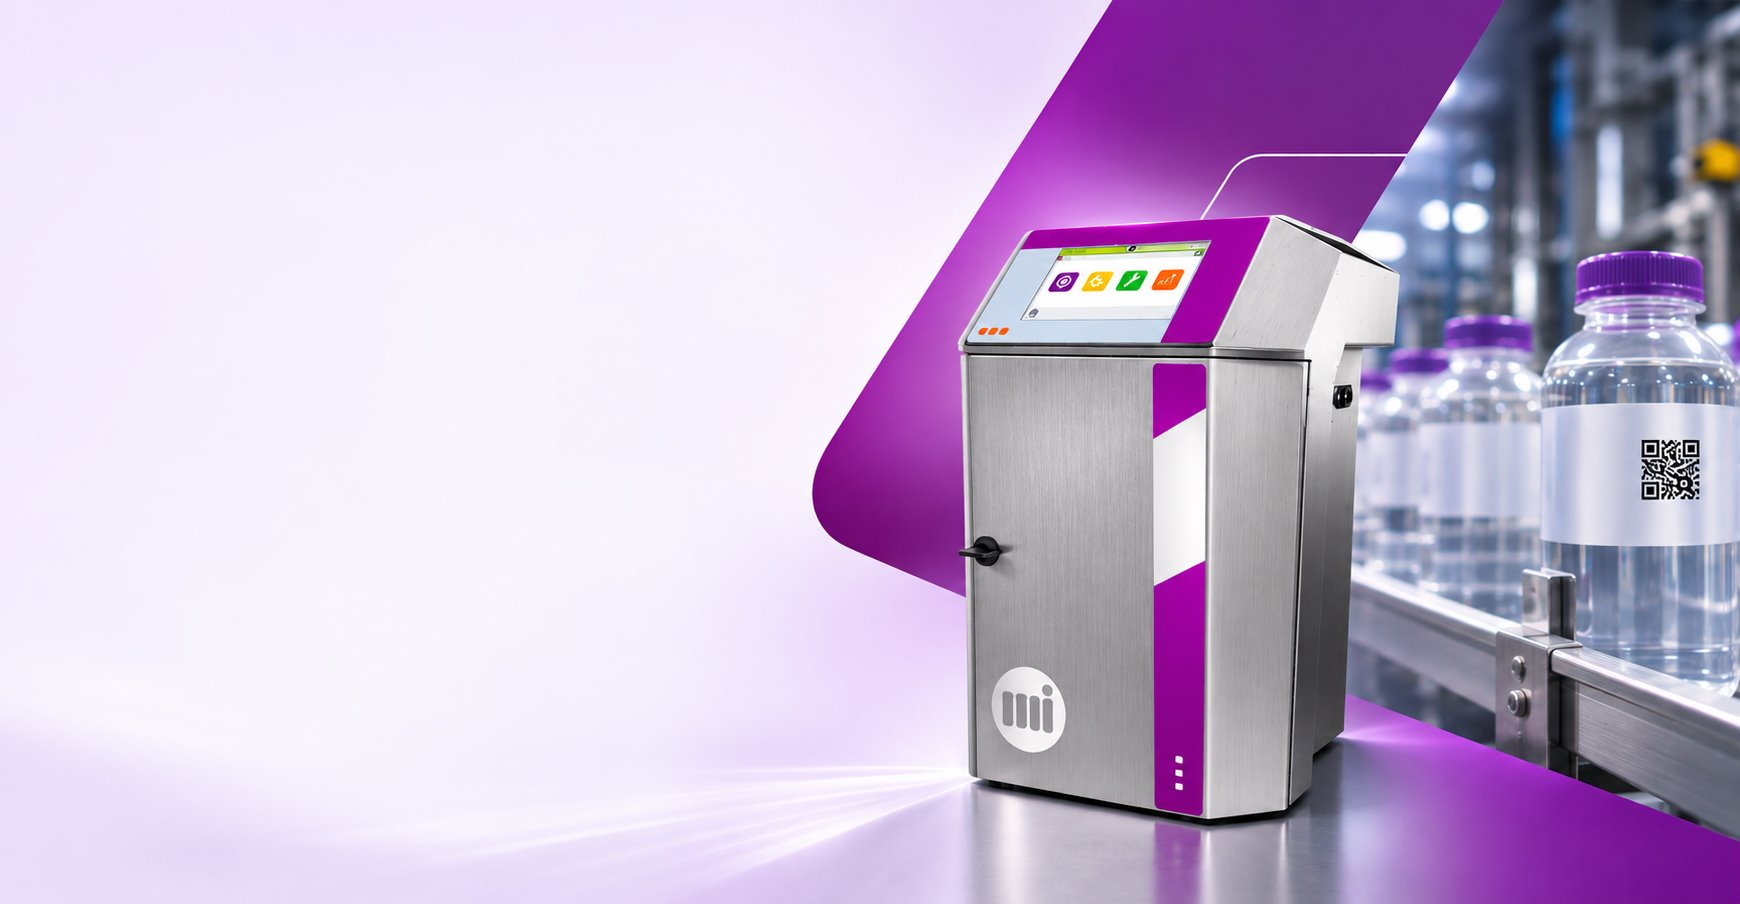
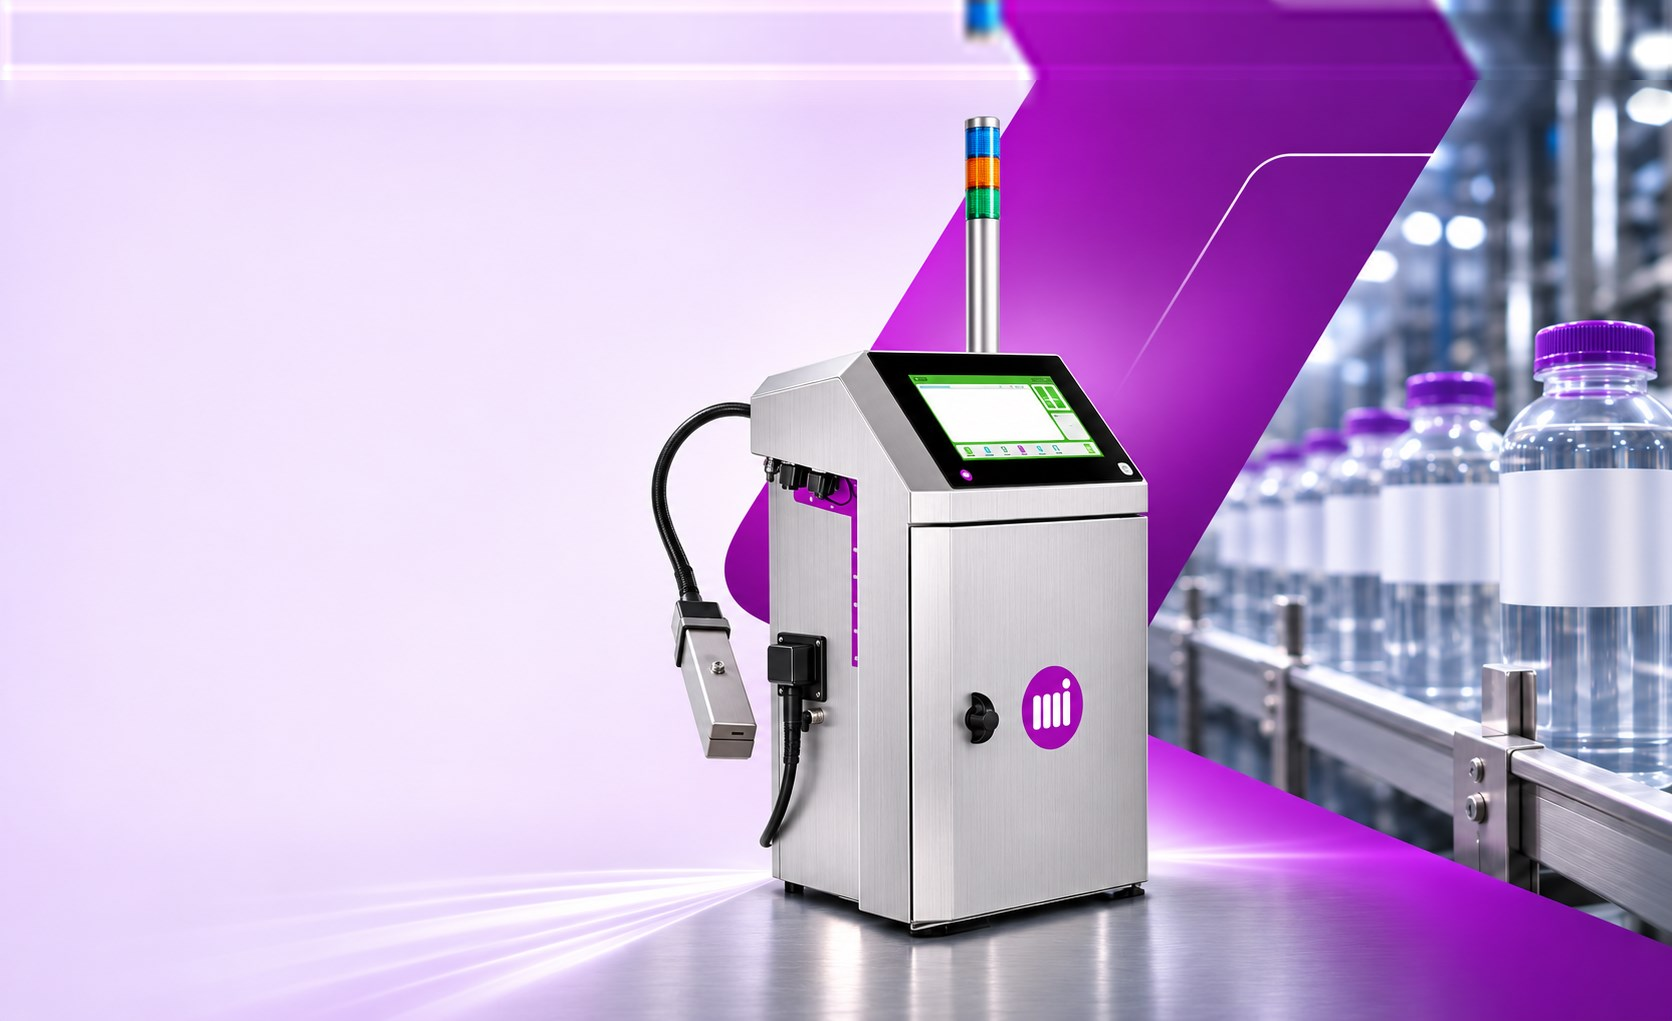
Hero com novo fundo (9750+), etiquetas de lote e QR reposicionados

diff --git a/index.html b/index.html
@@ -62,9 +62,9 @@ section{padding-block:clamp(56px,8vw,96px)}
 .top-markem{height:max(26px, calc(var(--u) * 43));width:auto}
 .top .btn{height:max(44px, calc(var(--u) * 57));padding:0 max(16px, calc(var(--u) * 24));font-size:max(15px, calc(var(--u) * 21));border-radius:8px;gap:max(10px, calc(var(--u) * 16))}
 
-.hero{--h-ink:#1b1830;--h-purple:#8a168d;position:relative;overflow:hidden;padding:0;background:#f3edf8;min-height:calc(var(--u) * 904)}
+.hero{--h-ink:#1b1830;--h-purple:#8a168d;position:relative;overflow:hidden;padding:0;background:linear-gradient(180deg,#f1e6f8 0%,#efe2f6 70%,#ece0f3 100%);min-height:calc(var(--u) * 904)}
 .hero-media{position:absolute;inset:0;overflow:hidden}
-.hero-stage{position:absolute;top:0;right:0;height:100%;aspect-ratio:1740/904;min-width:100%}
+.hero-stage{position:absolute;top:0;right:0;height:100%;aspect-ratio:1672/1021;-webkit-mask-image:linear-gradient(90deg,transparent 0,#000 9%);mask-image:linear-gradient(90deg,transparent 0,#000 9%)}
 .hero-stage img{position:absolute;inset:0;width:100%;height:100%;object-fit:cover;object-position:right center}
 .hero-overlay{position:absolute;inset:0;width:100%;height:100%;overflow:visible}
 .hero-copy{position:relative;z-index:2;padding:calc(var(--u) * 163) 0 calc(var(--u) * 66) max(20px, calc(var(--u) * 116))}
@@ -90,6 +90,7 @@ section{padding-block:clamp(56px,8vw,96px)}
   .hero{min-height:0;display:flex;flex-direction:column;background:linear-gradient(180deg,#fdfbfe 0%,#f1e8f5 100%)}
   .hero-copy{order:1;padding:32px 20px 36px}
   .hero-media{order:2;position:relative;inset:auto;aspect-ratio:1/1;max-height:560px}
+  .hero-stage{-webkit-mask-image:none;mask-image:none}
   .hero-pill{font-size:12px;padding:6px 16px;letter-spacing:.12em}
   .hero h1{font-size:clamp(31px,7.6vw,52px);margin-top:18px}
   .hero h1 br.d{display:none}
@@ -526,21 +527,32 @@ main > section:nth-of-type(8){z-index:2}
 <section class="hero">
   <div class="hero-media">
     <div class="hero-stage">
-      <img src="assets/img/hero-bg.jpg" alt="Impressora industrial Markem-Imaje de jato de tinta contínuo ao lado de garrafas codificadas com QR Code na linha de produção" width="1740" height="904" fetchpriority="high">
-      <svg class="hero-overlay" viewBox="0 0 1740 904" preserveAspectRatio="xMaxYMid slice" aria-hidden="true">
-        <!-- modelo na faixa da máquina -->
-        <text transform="translate(1196 567) rotate(-90)" font-family="'Plus Jakarta Sans','Segoe UI',sans-serif" font-weight="800" font-size="50" letter-spacing="-1" fill="#8a168d">9450</text>
+      <img src="assets/img/hero-bg.jpg" alt="Impressora industrial Markem-Imaje de jato de tinta contínuo ao lado de garrafas codificadas com QR Code na linha de produção" width="1672" height="1021" fetchpriority="high">
+      <svg class="hero-overlay" viewBox="0 0 1672 1021" preserveAspectRatio="xMaxYMid slice" aria-hidden="true"><g transform="translate(0 80)">
+        <!-- tela da máquina -->
+        <g transform="translate(934 312) skewY(-1.5)" font-family="'Plus Jakarta Sans','Segoe UI',sans-serif" font-weight="800" fill="#2a2733">
+          <circle cx="11" cy="16" r="11" fill="#2a2733"/><path d="M5 21v-9M9 21v-9M13 21v-9M17 21v-7" stroke="#fff" stroke-width="2"/>
+          <text x="28" y="12" font-size="10.5" font-weight="600" letter-spacing=".5">WELCOME</text>
+          <text x="28" y="27" font-size="15">9750+</text>
+        </g>
+        <!-- modelo -->
+        <rect x="1062" y="410" width="60" height="20" rx="4" fill="#1e1b2c"/>
+        <text x="1092" y="425" text-anchor="middle" font-family="'Plus Jakarta Sans','Segoe UI',sans-serif" font-weight="700" font-size="13" fill="#fff">9750+</text>
         <!-- código impresso no rótulo da garrafa -->
         <g font-family="'Barlow Condensed','Arial Narrow',sans-serif" font-weight="600" font-size="15" fill="#2a2733">
-          <text x="1549" y="464">LOTE L2611-05</text>
-          <text x="1549" y="484">VAL 05/05/2027</text>
+          <text x="1510" y="446">LOTE L2611-05</text>
+          <text x="1510" y="468">VAL 05/05/2027</text>
+        </g>
+        <g transform="translate(1606 424)" fill="#1e1b2c">
+          <path d="M0 0h16v16H0zM3 3v10h10V3zM5 5h6v6H5zM38 0h16v16H38zM41 3v10h10V3zM43 5h6v6h-6zM0 38h16v16H0zM3 41v10h10V41zM5 43h6v6H5z" fill-rule="evenodd"/>
+          <path d="M20 0h4v4h-4zM28 2h6v4h-6zM20 8h6v5h-6zM30 9h4v7h-4zM20 18h5v4h-5zM0 20h6v4H0zM10 19h7v5h-7zM28 19h8v4h-8zM40 20h5v5h-5zM48 18h6v6h-6zM2 28h5v6H2zM12 28h6v4h-6zM22 26h4v8h-4zM30 28h8v5h-8zM44 28h4v4h-4zM50 30h4v6h-4zM20 38h6v4h-6zM30 37h4v4h-4zM38 38h8v5h-8zM50 40h4v6h-4zM22 46h5v8h-5zM31 45h6v4h-6zM40 48h7v6h-7zM32 51h4v3h-4z"/>
         </g>
         <!-- linha da etiqueta até o rótulo -->
-        <path d="M1521 538 L1572 497" stroke="#b46fb0" stroke-width="2" fill="none"/>
-        <circle cx="1572" cy="497" r="6.5" fill="#8a168d" stroke="#fff" stroke-width="2.5"/>
+        <path d="M1492 534 L1540 492" stroke="#b46fb0" stroke-width="2" fill="none"/>
+        <circle cx="1540" cy="492" r="6.5" fill="#8a168d" stroke="#fff" stroke-width="2.5"/>
         <!-- etiqueta -->
-        <rect x="1293" y="522" width="230" height="78" rx="13" fill="#1e1b2c" stroke="#fff" stroke-opacity=".85" stroke-width="2"/>
-        <g transform="translate(1312 539)" stroke="#fff" stroke-width="2.2" fill="none">
+        <rect x="1284" y="528" width="214" height="70" rx="12" fill="#1e1b2c" stroke="#fff" stroke-opacity=".85" stroke-width="2"/>
+        <g transform="translate(1300 541)" stroke="#fff" stroke-width="2.2" fill="none">
           <path d="M0 11V0h11M33 0h11v11M44 33v11H33M11 44H0V33"/>
           <g fill="#fff" stroke="none">
             <rect x="8" y="8" width="11" height="11"/><rect x="25" y="8" width="11" height="11"/><rect x="8" y="25" width="11" height="11"/>
@@ -549,10 +561,10 @@ main > section:nth-of-type(8){z-index:2}
           <g fill="#1e1b2c" stroke="none"><rect x="11" y="11" width="5" height="5"/><rect x="28" y="11" width="5" height="5"/><rect x="11" y="28" width="5" height="5"/></g>
         </g>
         <g font-family="'Plus Jakarta Sans','Segoe UI',sans-serif" font-weight="600" font-size="15.5" letter-spacing=".3" fill="#fff">
-          <text x="1374" y="556">LOTE L2611-05</text>
-          <text x="1374" y="580">VAL 05/05/2027</text>
+          <text x="1360" y="557">LOTE L2611-05</text>
+          <text x="1360" y="581">VAL 05/05/2027</text>
         </g>
-      </svg>
+      </g></svg>
     </div>
   </div>
   <div class="hero-copy">
